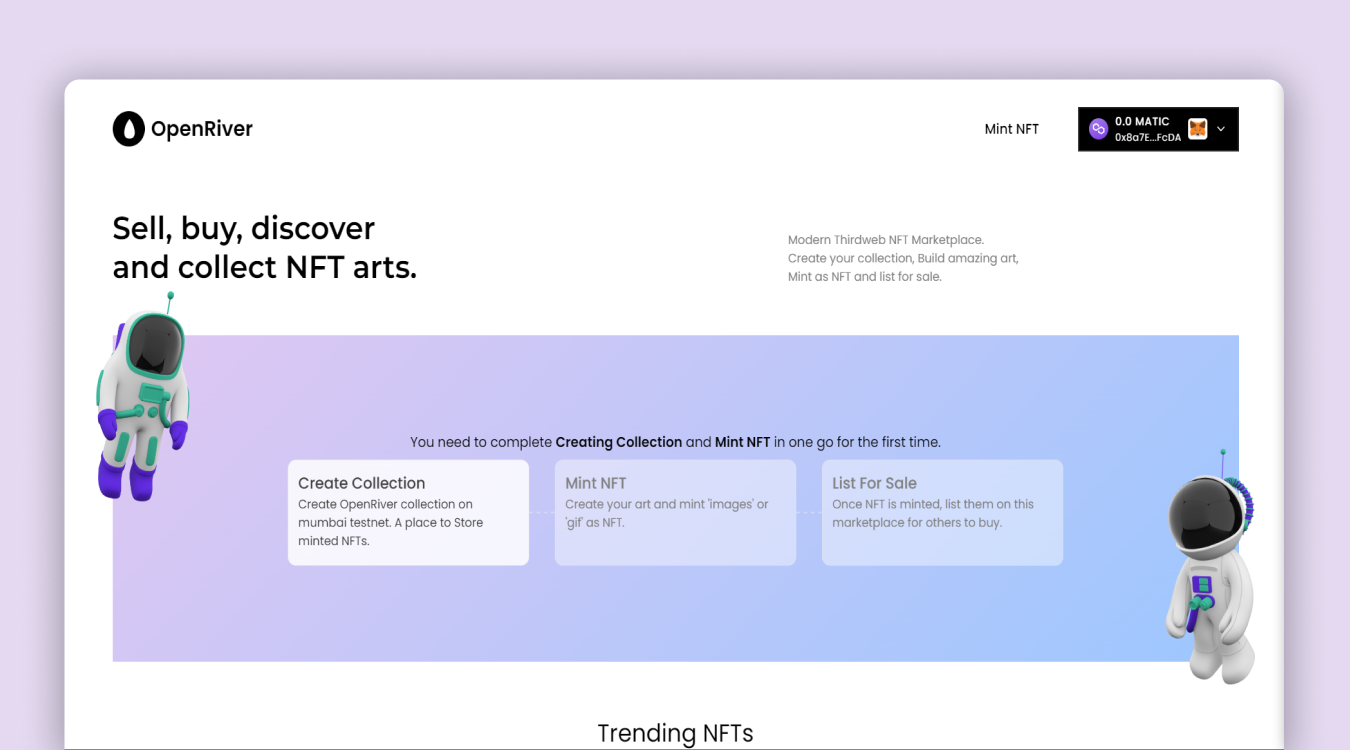
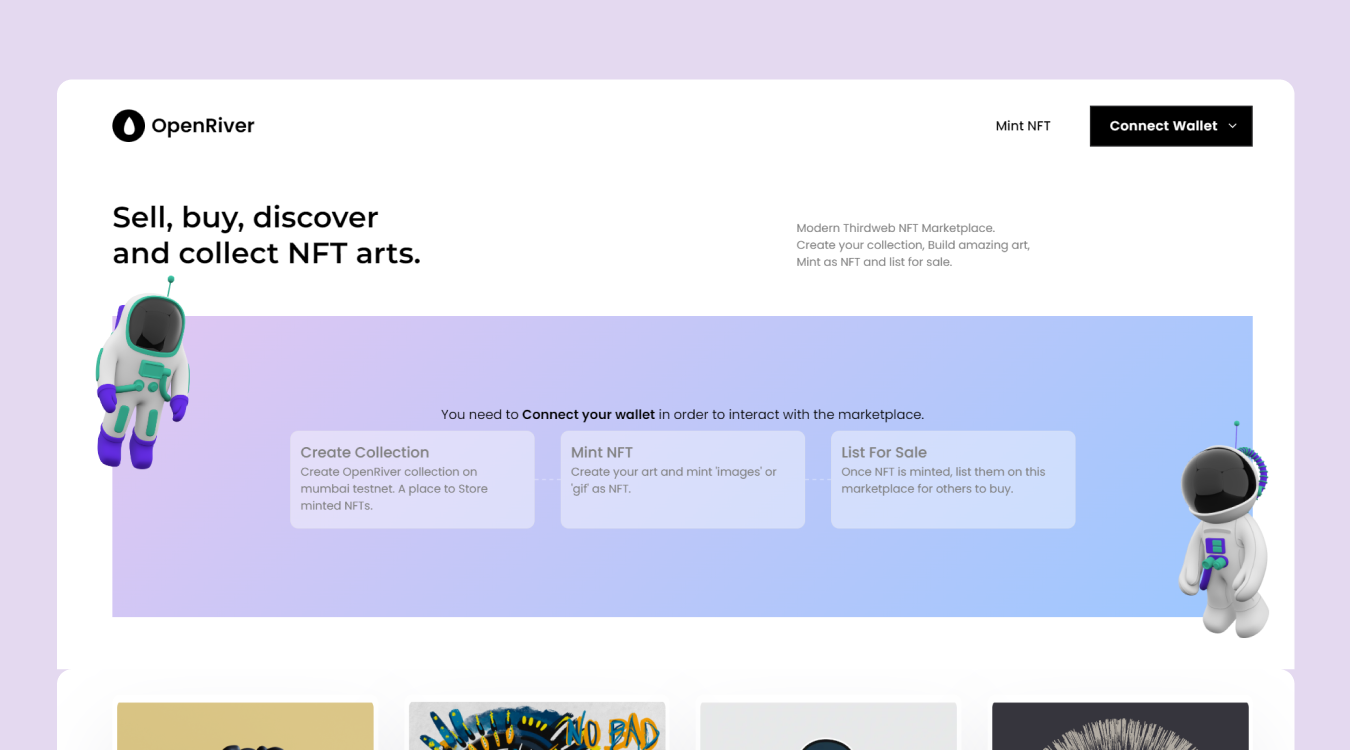
Thumbnails

Changed region(s): [[0.0311, 0.0919, 0.9644, 1.0], [0.1867, 0.5513, 0.8089, 0.7656], [0.0933, 0.1531, 0.1867, 0.1838]]

diff --git a/blogs/get-started-with-solidity-hardhat-and-etherjs.md b/blogs/get-started-with-solidity-hardhat-and-etherjs.md
@@ -2,7 +2,7 @@
 title: "Get started with Solidity, Hardhat and Etherjs"
 slug: "get-started-with-solidity-hardhat-and-etherjs"
 description: "Learn step-by-step how to build, deploy, and interact with smart contracts using the most popular stack available in the market, i.e. Solidity, Hardhat, and Etherjs."
-image: "https://i.imgur.com/V7dmMmp.png"
+image: "https://i.imgur.com/DF14NnL.png"
 squareImage: "../hardhatIcon.png"
 date: "Oct 24, 2022"
 tags: ["Solidity", "Hardhat", "Etherjs", "Nextjs"]

diff --git a/blogs/build-nft-marketplace-using-thirdweb.md b/blogs/build-nft-marketplace-using-thirdweb.md
@@ -2,7 +2,7 @@
 title: "Build NFT Marketplace using Thirdweb"
 slug: "build-nft-marketplace-using-thirdweb"
 description: "Learn how to use the thirdweb SDK and pre-built contracts to construct your own NFT Marketplace and interact with any smart contract with ease. No Baas or backend are necessary."
-image: "https://i.imgur.com/V7dmMmp.png"
+image: "https://i.imgur.com/9jDe3MM.png"
 squareImage: "../thirdwebIcon.png"
 date: "Nov 17, 2022"
 tags: ["Thirdweb", "Nextjs"]

diff --git a/blogs/handling-wallet-with-thirdweb-sdk.md b/blogs/handling-wallet-with-thirdweb-sdk.md
@@ -2,7 +2,7 @@
 title: "Handling wallet with Thirdweb SDK"
 slug: "handling-wallet-with-thirdweb-sdk"
 description: "Handling wallets and their events in the frontend application is incredibly simple with the Thirdweb SDK. Learn from this brief blog."
-image: "https://i.imgur.com/V7dmMmp.png"
+image: "https://i.imgur.com/84pEGOG.png"
 squareImage: "../walletIcon.png"
 date: "Nov 04, 2022"
 tags: ["Wallets", "Thirdweb", "Reactjs"]
